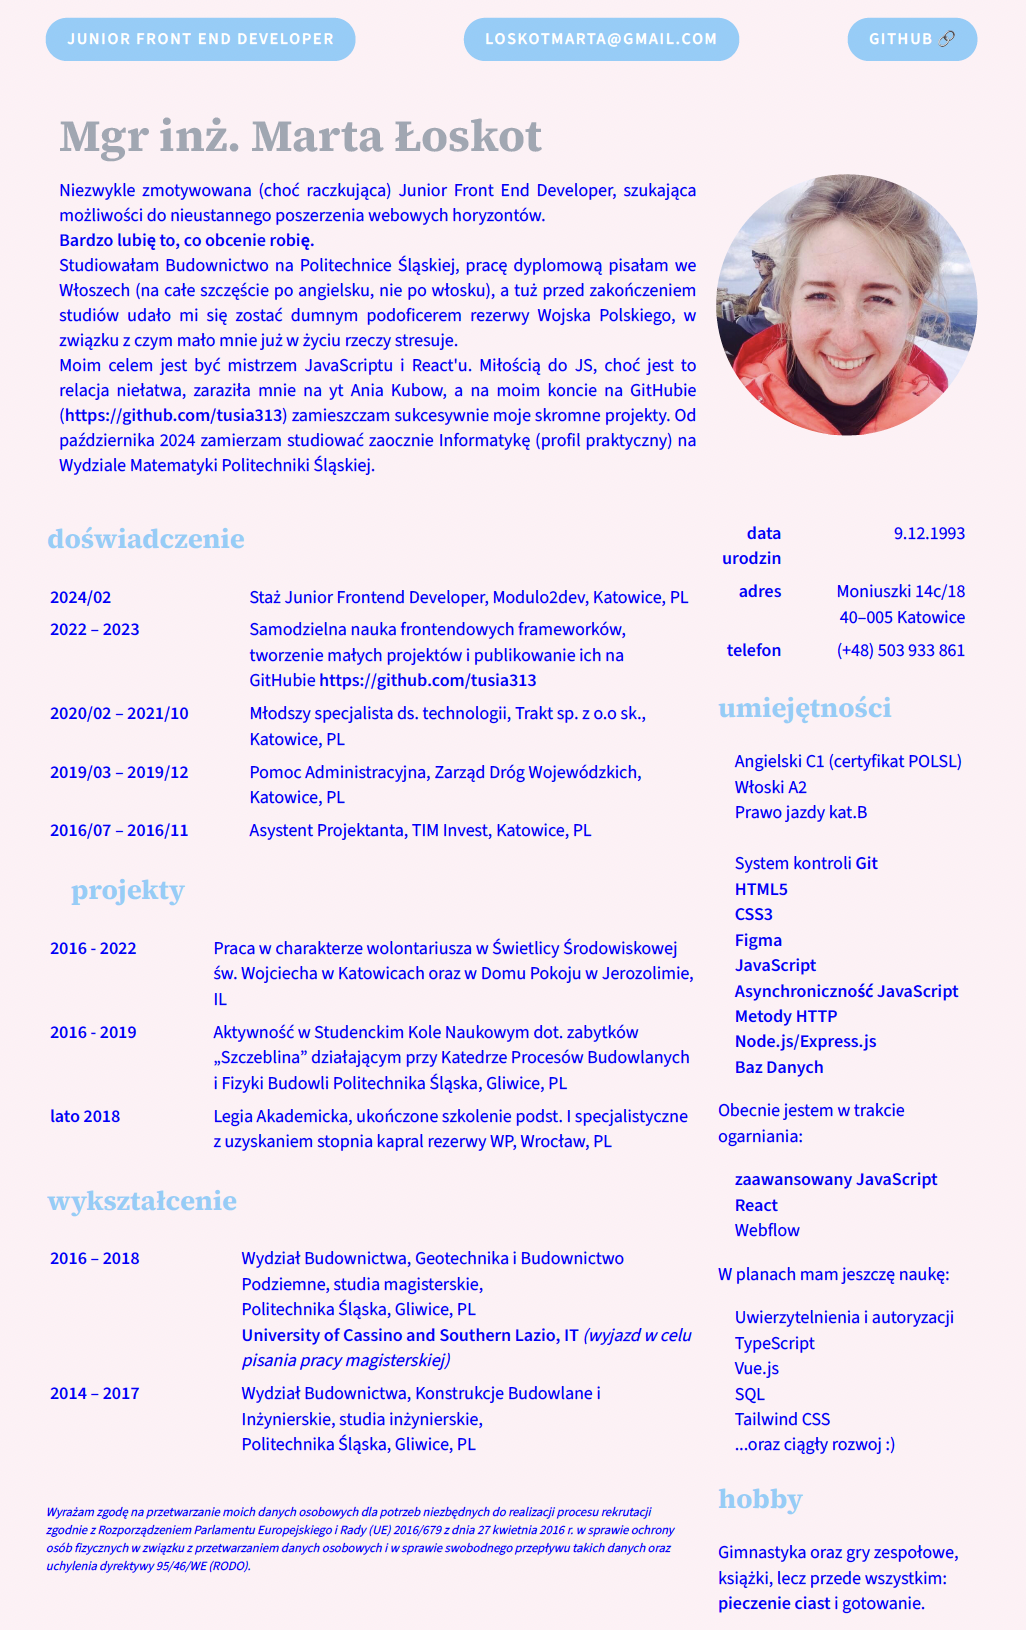
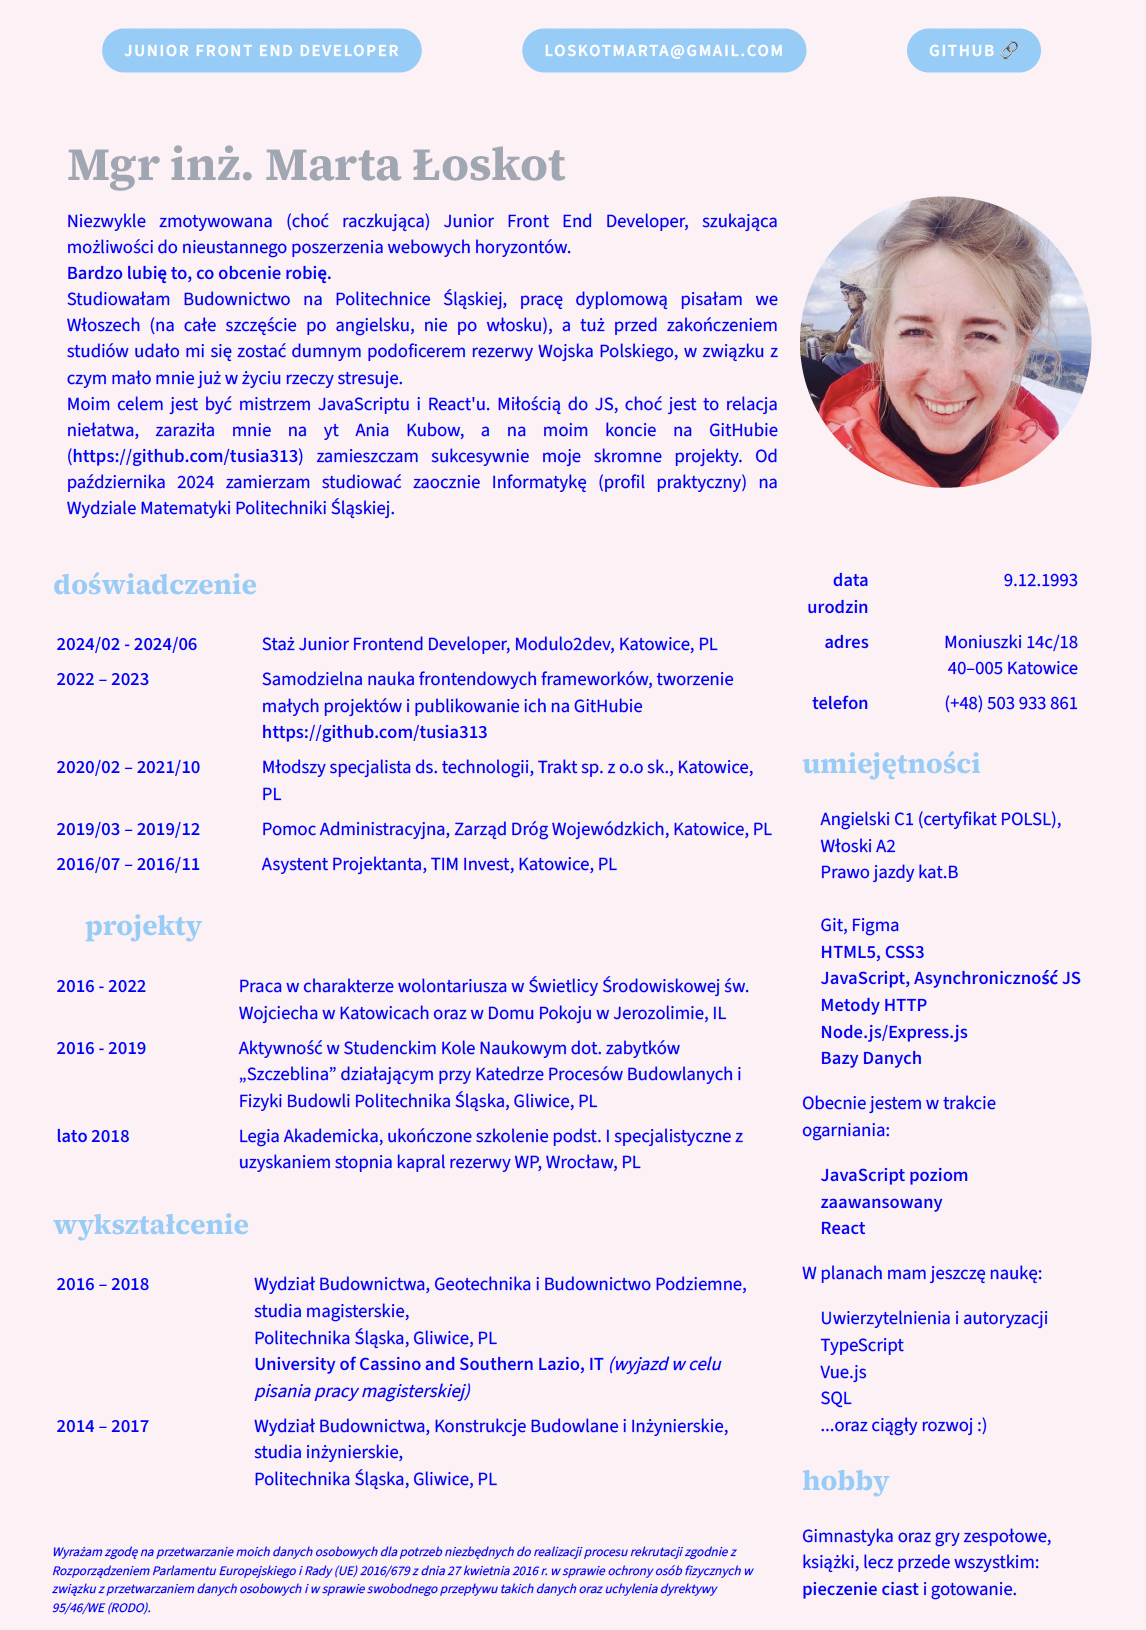
Add new screnshot

diff --git a/index.html b/index.html
@@ -162,24 +162,19 @@
                 <section class="skills">
                     <h2>umiejętności</h2>
                     <ul>
-                        <li>Angielski C1 (certyfikat POLSL)</li>
-                        <li>Włoski A2</li>
+                        <li>Angielski C1 (certyfikat POLSL), Włoski A2</li>
                         <li>Prawo jazdy kat.B</li> </br>
-                        <li>System kontroli <b>Git</b></li>
-                        <li><b>HTML5</b></li>
-                        <li><b>CSS3</b></li>
-                        <li><b>Figma</b></li>
-                        <li><b>JavaScript</b></li>
-                        <li><b>Asynchroniczność JavaScript</b></li>
+                        <li>Git, Figma</b></li>
+                        <li><b>HTML5, CSS3</b></li>
+                        <li><b>JavaScript, Asynchroniczność JS </b></li>
                         <li><b>Metody HTTP</b></li>
                         <li><b>Node.js/Express.js</b></li>
-                        <li><b>Baz Danych</b></li>
+                        <li><b>Bazy Danych</b></li>
                     </ul>
                     <p>Obecnie jestem w trakcie ogarniania:</p>
                     <ul>
-                        <li><b>zaawansowany JavaScript</b></li>
+                        <li><b>JavaScript poziom zaawansowany</b></li>
                         <li><b>React</b></li>
-                        <li>Webflow</li>
                     </ul>
                     <p>W planach mam jeszczę naukę:</p>
                     <ul>
@@ -187,7 +182,6 @@
                         <li>TypeScript</li>
                         <li>Vue.js</li>
                         <li>SQL</li>
-                        <li>Tailwind CSS</li>
                         <li>...oraz ciągły rozwoj :)</li>
                     </ul>
                 </section>

diff --git a/css/style.css b/css/style.css
@@ -8,12 +8,17 @@ body {
     background-color: lavenderblush;
     color: blue;
     font-family: 'Source Sans 3', sans-serif;
-    font-size: 2.7rem;
+    font-size: 2.5rem;
 }
 
 main {
     height: 3508px ;
     width: 2480px ;
+    /* border: 3px solid plum; */
+    display: flex;
+    flex-direction: column;
+    justify-content: space-between;
+    align-items: center;
 }
 
 h2 {
@@ -26,7 +31,7 @@ nav {
     margin: auto;
     display: flex;
     flex-wrap: wrap;
-    justify-content: space-between;
+    justify-content: space-around;
     padding: 1em 0;
 }
 
@@ -122,5 +127,4 @@ aside.confidentialy_clause {
     padding-top: 70px;
     width: 98%;
     font-size: 0.7em;
-    margin-top: 6rem;
  }
